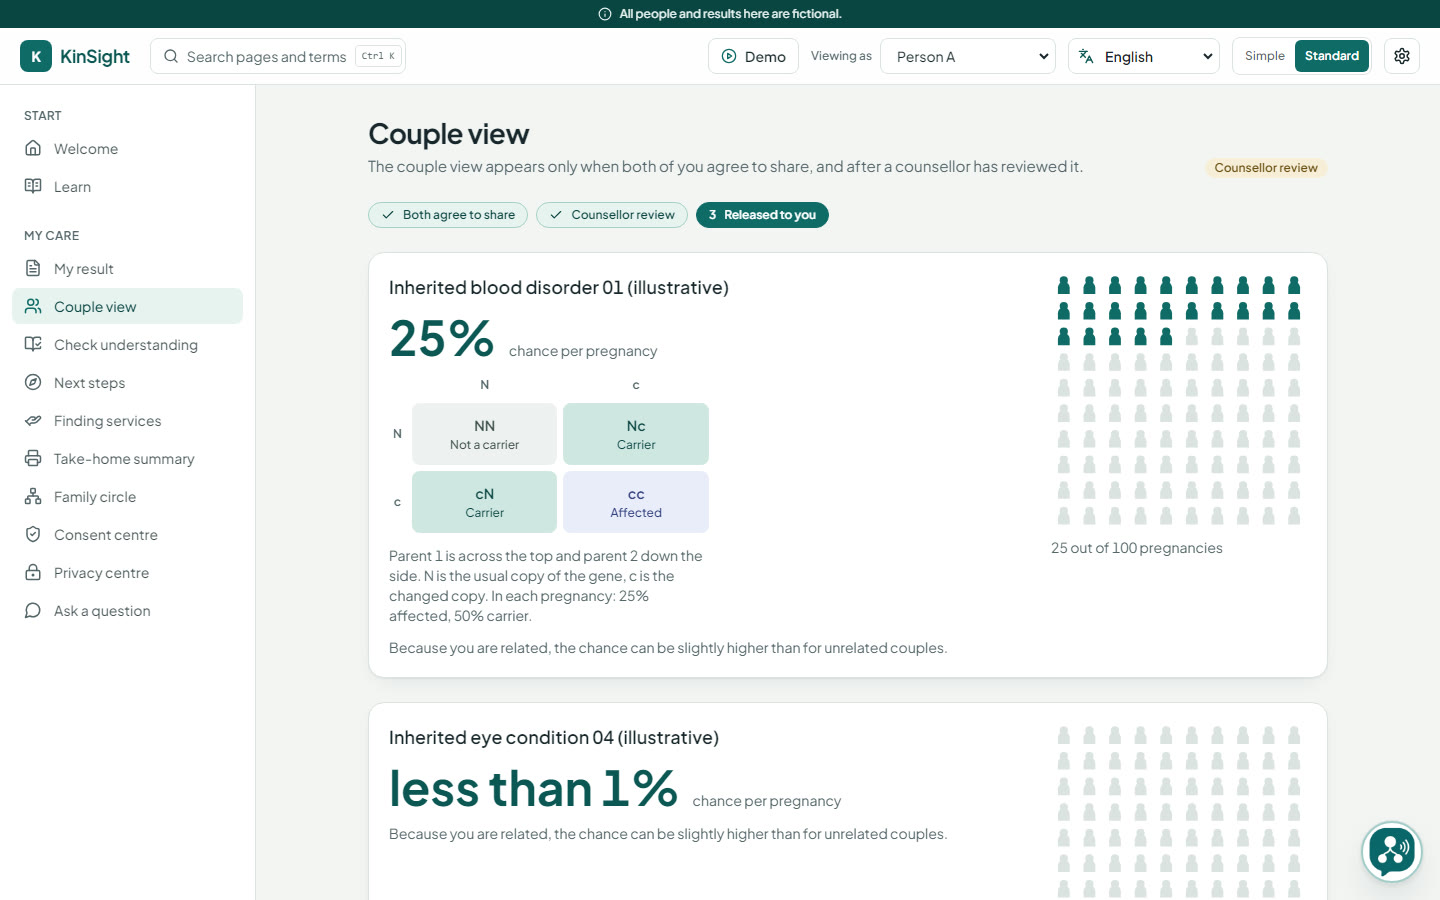
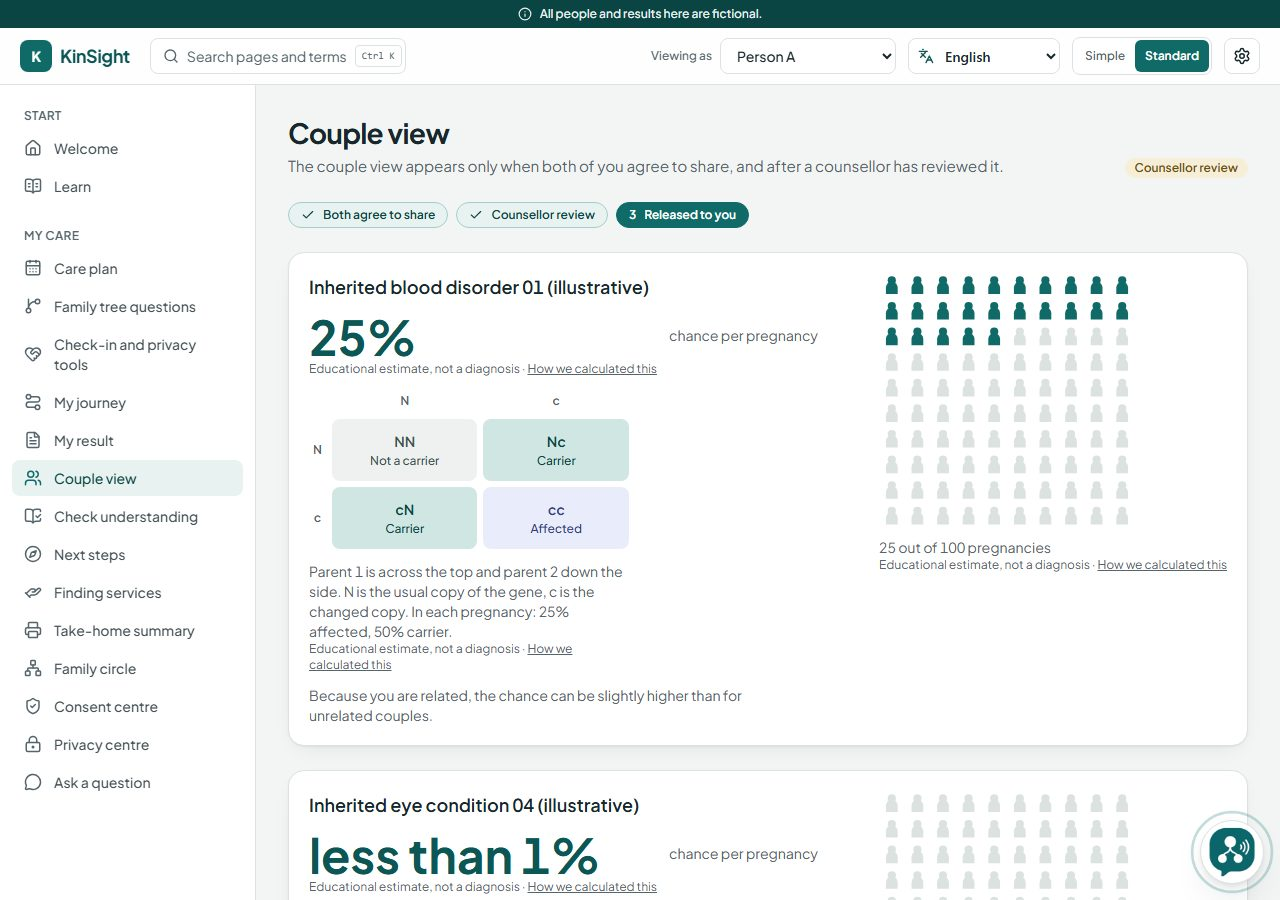
Label every risk figure as an educational estimate
API: Estimate envelope (value, kind, basis, method_url) replaces bare floats on the couple finding and triage result.
Web: <Estimate> component, strings in all seven languages, method anchors.
Guards: OpenAPI schema walk and a per-language Playwright crawl.

diff --git a/web/app/couple/page.tsx b/web/app/couple/page.tsx
@@ -1,7 +1,7 @@
 "use client";
 import { useMutation, useQuery, useQueryClient } from "@tanstack/react-query";
 import { Users } from "lucide-react";
-import { Notice, PageHeader, Steps } from "@/components/ui";
+import { Estimate, Notice, Paragraphs, PageHeader, Steps } from "@/components/ui";
 import { IconArray, Punnett, TierChip } from "@/components/visuals";
 import { ReadAloud } from "@/components/Voice";
 import { api, MOCK } from "@/lib/api";
@@ -36,16 +36,16 @@ export default function CoupleView() {
         <article key={f.condition_id} data-demo="finding" className="card grid gap-6 md:grid-cols-[minmax(0,1fr)_auto]">
           <div className="space-y-3">
             <h2 className="text-lg font-semibold">{rowLabel(f, lang)}</h2>
-            {f.risk_affected !== null ? (
-              <p className="flex items-baseline gap-3">
-                <span className="text-5xl font-bold tabular-nums text-brand-700" dir={f.risk_affected > 0 && f.risk_affected < 0.01 ? undefined : "ltr"}>{pct(f.risk_affected)}</span>
-                <span className="text-sm text-muted">{f.inheritance === "XLR" ? t("couple.chanceSon") : t("couple.chance")}</span>
+            {f.risk_affected.value !== null ? (
+              <p className="flex items-start gap-3">
+                <Estimate est={f.risk_affected}><span className="text-5xl font-bold tabular-nums text-brand-700" dir={f.risk_affected.value > 0 && f.risk_affected.value < 0.01 ? undefined : "ltr"}>{pct(f.risk_affected.value)}</span></Estimate>
+                <span className="mt-3 text-sm text-muted">{f.inheritance === "XLR" ? t("couple.chanceSon") : t("couple.chance")}</span>
               </p>
             ) : <p className="text-muted">{t("result.unclear")}</p>}
-            {f.formula_id === "ar_both_carrier" && f.risk_affected !== null && <Punnett affected={f.risk_affected} carrier={f.inputs?.carrier_child ?? 0.5} />}
+            {f.formula_id === "ar_both_carrier" && f.risk_affected.value !== null && <Punnett affected={f.risk_affected.value} carrier={f.inputs?.carrier_child ?? 0.5} />}
             {c.related && f.note_codes.includes("related_partners") && <p className="text-sm text-muted">{t("couple.relatedNote")}</p>}
           </div>
-          {f.risk_affected !== null && <IconArray risk={f.risk_affected} />}
+          {f.risk_affected.value !== null && <IconArray risk={f.risk_affected.value} />}
         </article>
       ))}
       {released && !!expl.data && (
@@ -54,7 +54,7 @@ export default function CoupleView() {
             <h2 className="text-lg font-semibold">{t("result.explanation")}</h2>
             <ReadAloud text={expl.data.blocks.join(" ")} />
           </div>
-          <div className="max-w-read space-y-3">{expl.data.blocks.map((b, i) => <p key={i}>{b}</p>)}</div>
+          <div className="max-w-read space-y-3"><Paragraphs blocks={expl.data.blocks} /></div>
         </div>
       )}
       {c?.tier && <p className="max-w-read text-sm text-muted">{t("couple.uncertainty")}</p>}

diff --git a/web/e2e/estimate-label.spec.ts b/web/e2e/estimate-label.spec.ts
@@ -1,0 +1,40 @@
+import { expect, test, type Page } from "@playwright/test";
+import languages from "../messages/languages.json";
+
+// Guard: every risk figure on screen ("25%", "1 in 4", "100 में 25") sits inside an <Estimate> (data-estimate), in every
+// language. Cohort statistics that are not a chance for a person are marked data-not-risk.
+const FIGURE = /\d\s?%|%\s?\d|\d+ (?:in|of|من|में|ல்|இல்|లో|ರಲ್ಲಿ|ರ|ൽ) \d+/;
+const PAGES = ["home", "learn", "result", "couple", "understand", "consents", "family", "next", "summary", "privacy", "ask",
+  "counsellor", "analyst", "governance", "methods", "plan", "clinic", "report-compare", "nasab"];
+
+const unlabelled = (page: Page) => page.evaluate((src) => {
+  const re = new RegExp(src);
+  const out: string[] = [];
+  const walker = document.createTreeWalker(document.body, NodeFilter.SHOW_TEXT);
+  for (let n = walker.nextNode(); n; n = walker.nextNode()) {
+    const el = n.parentElement;
+    if (!el || !re.test(n.textContent ?? "") || el.closest("[data-estimate],[data-not-risk],script,style,noscript,[hidden]")) continue;
+    out.push((n.textContent ?? "").trim().slice(0, 80));
+  }
+  return out;
+}, FIGURE.source);
+
+for (const { code } of languages) {
+  test(`every risk figure is labelled as an educational estimate (${code})`, async ({ page }) => {
+    await page.goto("/home");
+    await page.waitForFunction(() => localStorage.getItem("ks_lang") !== null);
+    await page.evaluate((l) => localStorage.setItem("ks_lang", l), code);
+    await page.reload();
+    // Both partners shared and the counsellor approved, so the couple's figures are on screen (mock state lives in sessionStorage).
+    await page.evaluate(() => sessionStorage.setItem("ks_mock", JSON.stringify({ pooled: { a: true, b: true }, released: true })));
+    await page.goto("/couple");
+    await expect(page.locator("[data-estimate]").first()).toBeVisible(); // the figures exist, so the crawl below is not vacuous
+    const bad: string[] = [];
+    for (const path of PAGES) {
+      await page.goto(`/${path}`);
+      await page.waitForLoadState("networkidle");
+      for (const t of await unlabelled(page)) bad.push(`${path}: ${t}`);
+    }
+    expect(bad).toEqual([]);
+  });
+}

diff --git a/web/lib/mock.ts b/web/lib/mock.ts
@@ -96,7 +96,7 @@ export const mock = {
     const compound = v.a.some((a) => v.b.some((b) => a.gene === b.gene && a.allele !== b.allele));
     const counts = { a: v.a.filter((g) => !shared.includes(g.gene)).length, b: v.b.filter((g) => !shared.includes(g.gene)).length };
     const rules = [shared.length === 1 && "RULE-01_SINGLE_GENE", shared.length > 1 && "RULE-02_MULTI_GENE", hold && "RULE-03_ORTHOGONAL_HOLD", (counts.a + counts.b > 0) && "RULE-04_PRIVATE_FINDING", compound && "RULE-05_COMPOUND_HET", v.phi > 0 && "RULE-06_CONSANGUINITY_REFLEX", v.pregnant_days !== null && v.pregnant_days < 120 && "RULE-07_PREGNANCY_WINDOW", ((v.dcs ?? 0) > 37.5 || v.teach_back_failures > 0) && "RULE-08_DECISIONAL_SUPPORT"].filter((r): r is string => !!r);
-    return { tier: shared.length ? 3 : rules.length ? 2 : 1, rules, shared_genes: shared, combined_risk_pct: shared.length > 1 ? 43.75 : shared.length ? 25 : 0, hold_release: hold, private_counts: counts, sla_hours: v.pregnant_days !== null && v.pregnant_days < 120 ? 24 : shared.length ? 72 : null };
+    return { tier: shared.length ? 3 : rules.length ? 2 : 1, rules, shared_genes: shared, combined_risk: { value: (shared.length > 1 ? 43.75 : shared.length ? 25 : 0) / 100, kind: "educational_estimate" as const, basis: "independent_loci_union", method_url: "/methods" }, hold_release: hold, private_counts: counts, sla_hours: v.pregnant_days !== null && v.pregnant_days < 120 ? 24 : shared.length ? 72 : null };
   },
   async checkin(body: z.infer<typeof safety.CheckinRequestS>) {
     const v = safety.CheckinRequestS.parse(body);
@@ -175,7 +175,7 @@ export const mock = {
     ensureReleased();
     if (!S.released) return { tier: s.tier, awaiting_counsellor: true, findings: null };
     return { tier: s.tier, awaiting_counsellor: false, related: s.related,
-      findings: shown(s).map((f) => ({ ...f, ...label(f.condition_id), risk_affected: f.risk_affected })) };
+      findings: shown(s).map((f) => ({ ...f, ...label(f.condition_id), risk_affected: { value: f.risk_affected, kind: "educational_estimate" as const, basis: f.formula_id, method_url: "/methods" } })) };
   },
   async grantPooling() {
     if (S.persona === "person_b") S.pooled.b = true; else S.pooled.a = true;

diff --git a/web/lib/safety.ts b/web/lib/safety.ts
@@ -1,10 +1,11 @@
 import { z } from "zod";
+import { EstimateS } from "./estimate";
 
 export const GeneCallS = z.object({ gene: z.string().trim().min(1), inheritance: z.enum(["AR", "XLR"]), zygosity: z.enum(["HET", "HOM", "HEMI"]), acmg_class: z.number().int().min(1).max(5), requires_orthogonal: z.boolean(), orthogonal_verified: z.boolean(), allele: z.string() });
 export type GeneCall = z.infer<typeof GeneCallS>;
 export const TriageRequestS = z.object({ a: z.array(GeneCallS), b: z.array(GeneCallS), phi: z.number().min(0).max(0.5), pregnant_days: z.number().int().nonnegative().nullable(), dcs: z.number().min(0).max(100).nullable(), teach_back_failures: z.number().int().nonnegative() });
 export type TriageRequest = z.infer<typeof TriageRequestS>;
-export const TriageS = z.object({ tier: z.number().int().min(1).max(3), rules: z.array(z.string()), shared_genes: z.array(z.string()), combined_risk_pct: z.number().min(0).max(100), hold_release: z.boolean(), private_counts: z.object({ a: z.number().int().nonnegative(), b: z.number().int().nonnegative() }), sla_hours: z.number().nonnegative().nullable() });
+export const TriageS = z.object({ tier: z.number().int().min(1).max(3), rules: z.array(z.string()), shared_genes: z.array(z.string()), combined_risk: EstimateS, hold_release: z.boolean(), private_counts: z.object({ a: z.number().int().nonnegative(), b: z.number().int().nonnegative() }), sla_hours: z.number().nonnegative().nullable() });
 export const CheckinRequestS = z.object({ instrument: z.enum(["dcs", "low_literacy_dcs", "pagis"]), answers: z.array(z.union([z.number(), z.string()])).nullable(), total: z.number().nonnegative().nullable() }).superRefine((v, ctx) => {
   const valid = v.instrument === "pagis" ? v.answers === null && v.total !== null : v.total === null && v.answers?.length === (v.instrument === "dcs" ? 16 : 10) && v.answers.every((a) => v.instrument === "dcs" ? typeof a === "number" && Number.isInteger(a) && a >= 0 && a <= 4 : ["yes", "unsure", "no"].includes(String(a)));
   if (!valid) ctx.addIssue({ code: z.ZodIssueCode.custom, message: "Complete the selected instrument" });

diff --git a/web/app/analyst/page.tsx b/web/app/analyst/page.tsx
@@ -43,10 +43,10 @@ export default function Analyst() {
         <div className="flex h-4 overflow-hidden rounded-full bg-sunk" role="img" aria-label={tiers.map(([k, n]) => `${t(`tier.${k}`)}: ${n}`).join(", ")}>
           {tiers.map(([k, n]) => <span key={k} style={{ width: `${(100 * n) / total}%`, background: `rgb(var(--b${k === 1 ? 200 : k === 2 ? 500 : 700}))` }} />)}
         </div>
-        <ul className="flex flex-wrap gap-x-6 gap-y-1 text-sm">
+        <ul data-not-risk className="flex flex-wrap gap-x-6 gap-y-1 text-sm">
           {tiers.map(([k, n]) => <li key={k} className="flex items-center gap-2"><span aria-hidden className="h-2.5 w-2.5 rounded-full" style={{ background: `rgb(var(--b${k === 1 ? 200 : k === 2 ? 500 : 700}))` }} />{t(`tier.${k}`)} <b className="tabular-nums" dir="ltr">{n} ({Math.round((100 * n) / total)}%)</b></li>)}
         </ul>
-        <p className="text-xs text-muted">{t("analyst.cohortNote").replace("{n}", String(d.cohort.couples)).replace("{r}", String(Math.round(d.cohort.related_share * 100)))}</p>
+        <p data-not-risk className="text-xs text-muted">{t("analyst.cohortNote").replace("{n}", String(d.cohort.couples)).replace("{r}", String(Math.round(d.cohort.related_share * 100)))}</p>
       </div>
 
       <div className="card" data-demo="burden">
@@ -116,7 +116,7 @@ export default function Analyst() {
               <span className="flex flex-wrap items-center gap-x-5 gap-y-1 text-sm">
                 <span>{t("cap.median")} <b className="tabular-nums" dir="ltr">{g.median_days}</b> {t("cap.days")}</span>
                 <span>{t("cap.p95")} <b className="tabular-nums" dir="ltr">{g.p95_days}</b> {t("cap.days")}</span>
-                <span>{t("cap.tier3")} <b className="tabular-nums" dir="ltr">{Math.round(g.tier3_within_window * 100)}%</b></span>
+                <span data-not-risk>{t("cap.tier3")} <b className="tabular-nums" dir="ltr">{Math.round(g.tier3_within_window * 100)}%</b></span>
               </span>
             </li>
           ))}

diff --git a/web/components/ui.tsx b/web/components/ui.tsx
@@ -1,6 +1,8 @@
 "use client";
 import { Check, CircleDashed, HelpCircle, Minus } from "lucide-react";
+import Link from "next/link";
 import type { ReactNode } from "react";
+import type { EstimateInfo } from "@/lib/estimate";
 import { useI18n } from "@/lib/i18n";
 
 export function PageHeader({ title, lead, action }: { title: string; lead?: string; action?: ReactNode }) {
@@ -41,4 +43,27 @@ export function Steps({ labels, current }: { labels: string[]; current: number }
       ))}
     </ol>
   );
+}
+
+// Every risk number is wrapped here so the label sits next to it, not only in the footer. The API sends the envelope;
+// text that came from a verified template (explanations, Kin replies) has no envelope, so it points at /methods.
+type EstimateRef = Pick<EstimateInfo, "basis" | "method_url">;
+export const ABOUT_ESTIMATES: EstimateRef = { basis: "estimates", method_url: "/methods" };
+export const hasFigure = (text: string) => /\d\s?%|%\s?\d|\d+ (?:in|of|من|में|ல்|இல்|లో|ರಲ್ಲಿ|ರ|ൽ) \d+/i.test(text);
+
+export function Estimate({ est, children, block = false }: { est: EstimateRef; children: ReactNode; block?: boolean }) {
+  const { t } = useI18n();
+  return (
+    <span data-estimate className={block ? "block" : "inline-flex flex-col"}>
+      {children}
+      <span className={`${block ? "block " : ""}text-xs font-normal text-muted`}>
+        {t("estimate.label")} · <Link className="underline" href={`${est.method_url}#${est.basis}`}>{t("estimate.how")}</Link>
+      </span>
+    </span>
+  );
+}
+
+// Explanation paragraphs: any paragraph carrying a figure gets the label right under it.
+export function Paragraphs({ blocks }: { blocks: string[] }) {
+  return <>{blocks.map((b, i) => hasFigure(b) ? <p key={i}><Estimate est={ABOUT_ESTIMATES} block>{b}</Estimate></p> : <p key={i}>{b}</p>)}</>;
 }

diff --git a/web/app/understand/page.tsx b/web/app/understand/page.tsx
@@ -2,7 +2,7 @@
 import { useMutation, useQuery } from "@tanstack/react-query";
 import { CheckCircle2, Heart } from "lucide-react";
 import { useState } from "react";
-import { Notice, PageHeader } from "@/components/ui";
+import { ABOUT_ESTIMATES, Estimate, hasFigure, Notice, PageHeader } from "@/components/ui";
 import { api } from "@/lib/api";
 import { useI18n } from "@/lib/i18n";
 
@@ -40,15 +40,16 @@ export default function Understand() {
                 <span className="grid h-6 w-6 shrink-0 place-items-center rounded-full bg-brand-50 text-xs font-bold text-brand-700">{qi + 1}</span>
                 {q.text}
               </p>
-              <div className="space-y-2">
-                {opts.map((o) => (
+              {(() => {
+                const list = <div className="space-y-2">{opts.map((o) => (
                   <label key={o.id} className={`flex cursor-pointer items-center gap-3 rounded-lg border px-3.5 py-2.5 text-sm transition-colors hover:bg-brand-50 ${answers[q.id] === o.id ? "border-brand-600 bg-brand-50" : "border-line"}`}>
                     <input type="radio" data-opt={o.id} className="h-4 w-4 accent-[#106b68]" name={q.id} checked={answers[q.id] === o.id}
                       onChange={() => setAnswers({ ...answers, [q.id]: o.id })} />
                     {o.text}
                   </label>
-                ))}
-              </div>
+                ))}</div>;
+                return opts.some((o) => hasFigure(o.text)) ? <Estimate est={ABOUT_ESTIMATES} block>{list}</Estimate> : list;
+              })()}
             </div>
           );
         })}

diff --git a/web/components/Assistant.tsx b/web/components/Assistant.tsx
@@ -3,6 +3,7 @@ import { useQuery } from "@tanstack/react-query";
 import { Mic, MicOff, SendHorizontal, Square, Volume2, VolumeX, X } from "lucide-react";
 import { usePathname, useRouter } from "next/navigation";
 import { useEffect, useRef, useState } from "react";
+import { ABOUT_ESTIMATES, Estimate, hasFigure } from "@/components/ui";
 import { api, MOCK } from "@/lib/api";
 import { answer, detectLang, suggestions, type Lang, type Link as L } from "@/lib/assistant";
 import { LANGUAGES, useI18n } from "@/lib/i18n";
@@ -128,7 +129,7 @@ export function AssistantPanel({ mode: layout, onClose }: { mode: "float" | "pag
           <div key={m.id} className={`flex flex-col gap-1.5 ${m.role === "you" ? "items-end" : "items-start"}`}>
             <p dir={m.lang === "ar" ? "rtl" : "ltr"} data-lang={m.lang} data-role={m.role}
               className={`max-w-[88%] whitespace-pre-line rounded-2xl px-3.5 py-2 text-sm ${m.role === "you" ? "rounded-ee-md bg-brand-600 text-onbrand" : m.refused ? "rounded-es-md bg-note-bg text-note-fg" : "rounded-es-md bg-sunk"}`}>
-              {m.voice && <Mic aria-hidden className="me-1.5 inline h-3 w-3 opacity-70" />}{m.text}
+              {m.voice && <Mic aria-hidden className="me-1.5 inline h-3 w-3 opacity-70" />}{m.role === "kin" && hasFigure(m.text) ? <Estimate est={ABOUT_ESTIMATES} block>{m.text}</Estimate> : m.text}
             </p>
             {m.links?.map((l) => (
               <button key={l.href} className="btn-quiet btn-sm" onClick={() => { router.push(l.href); onClose?.(); }}>{l.label}</button>

diff --git a/web/app/methods/page.tsx b/web/app/methods/page.tsx
@@ -11,6 +11,7 @@ const FORMULAS: { id: string; en: string }[] = [
   { id: "ar_one_carrier_residual", en: "prior = r + (1 − r)·c;  post = prior(1−s) / (prior(1−s) + (1−prior));  risk = ¼ · post" },
   { id: "ar_both_not_detected", en: "p = c(1−s) / (c(1−s) + (1−c));  risk = ¼ · p²" },
   { id: "xlr_mother_carrier", en: "each son affected = 1/2 · each daughter carrier = 1/2" },
+  { id: "independent_loci_union", en: "risk = 1 − 0.75^m   (m = genes both partners carry)" },
   { id: "kinship", en: "k(i,j) = ½ · (k(father_i, j) + k(mother_i, j));  F_child = k(father, mother)" },
 ];
 const KIN: [string, string][] = [["First cousins", "1/16"], ["Double first cousins", "1/8"], ["Full siblings", "1/4"], ["Half-siblings", "1/8"], ["Uncle and niece", "1/8"], ["Second cousins", "1/64"], ["Unrelated", "0"]];
@@ -38,7 +39,7 @@ export default function Methods() {
         <h2 className="border-b border-line px-5 py-3 text-lg font-semibold">{t("methods.formulas")}</h2>
         <ul className="divide-y divide-line">
           {FORMULAS.map((f) => (
-            <li key={f.id} className="px-5 py-4">
+            <li key={f.id} id={f.id} className="px-5 py-4 target:bg-brand-50">
               <p className="text-sm font-semibold">{f.id.replaceAll("_", " ")}</p>
               <p className="my-1.5 overflow-x-auto rounded-lg bg-sunk px-3 py-2 font-mono text-[0.8rem]" dir="ltr">{f.en}</p>
               <p className="max-w-read text-sm text-muted">{t(`methods.formula.${f.id}`)}</p>

diff --git a/web/app/learn/page.tsx b/web/app/learn/page.tsx
@@ -1,7 +1,7 @@
 "use client";
 import { Search } from "lucide-react";
 import { useEffect, useState } from "react";
-import { PageHeader } from "@/components/ui";
+import { ABOUT_ESTIMATES, Estimate, hasFigure, PageHeader } from "@/components/ui";
 import { IconArray, Punnett } from "@/components/visuals";
 import { useI18n } from "@/lib/i18n";
 import { GLOSSARY, MYTHS } from "@/lib/learn";
@@ -31,7 +31,7 @@ export default function Learn() {
             {[0.25, 0.5, 0.01].map((r) => <button key={r} data-demo={r === 0.01 ? "chance-small" : r === 0.5 ? "chance-half" : "chance-quarter"} aria-pressed={risk === r} onClick={() => setRisk(r)}>{r === 0.01 ? "1 / 100" : r === 0.25 ? "1 / 4" : "1 / 2"}</button>)}
           </div>
           <IconArray risk={risk} />
-          <p className="text-xs text-muted">{t("learn.chance.note")}</p>
+          <p className="text-xs text-muted"><Estimate est={ABOUT_ESTIMATES} block>{t("learn.chance.note")}</Estimate></p>
         </div>
       </div>
 
@@ -41,7 +41,7 @@ export default function Learn() {
           {MYTHS.map((m, i) => (
             <li key={i} className="grid gap-1 px-5 py-4 md:grid-cols-2 md:gap-6">
               <p className="text-muted line-through decoration-muted/40">{m.myth[l]}</p>
-              <p className="font-medium">{m.fact[l]}</p>
+              <p className="font-medium">{hasFigure(m.fact[l]) ? <Estimate est={ABOUT_ESTIMATES} block>{m.fact[l]}</Estimate> : m.fact[l]}</p>
             </li>
           ))}
         </ul>

diff --git a/web/app/clinic/page.tsx b/web/app/clinic/page.tsx
@@ -3,7 +3,7 @@ import { exploreGene } from "@/lib/clinvar";
 import Restricted from "@/components/Restricted";
 import { useState } from "react";
 import { useMutation } from "@tanstack/react-query";
-import { Notice, PageHeader } from "@/components/ui";
+import { Estimate, Notice, PageHeader } from "@/components/ui";
 import { api, MOCK } from "@/lib/api";
 import { TRIAGE_PRESETS, geneCall, triagePreset, type TriageRequest } from "@/lib/safety";
 import { useI18n } from "@/lib/i18n";
@@ -66,7 +66,7 @@ function ClinicCards() {
         <p>{t("safety.tier")}: {triage.data.tier}</p>
         <p>{t("safety.rules")}</p><ul>{triage.data.rules.map((r) => <li key={r}>{td(`safety.rule.${r}`)}</li>)}</ul>
         <p>{t("safety.sharedGenes")}: <bdi>{triage.data.shared_genes.join(", ") || t("safety.none")}</bdi></p>
-        <p>{t("safety.chance")}: {t("safety.frequency").replace("{x}", String(triage.data.combined_risk_pct))}</p>
+        <p>{t("safety.chance")}: <Estimate est={triage.data.combined_risk}>{t("safety.frequency").replace("{x}", String(Number(((triage.data.combined_risk.value ?? 0) * 100).toFixed(2))))}</Estimate></p>
         <p>{t(triage.data.hold_release ? "safety.hold" : "safety.noHold")}</p>
         <p>{t("safety.hours")}: {triage.data.sla_hours ?? t("safety.none")}</p>
         <p>{t("safety.privateCounts")}: {triage.data.private_counts.a} / {triage.data.private_counts.b}</p>

diff --git a/web/components/visuals.tsx b/web/components/visuals.tsx
@@ -1,5 +1,6 @@
 "use client";
 import { Check, Circle, Clock3 } from "lucide-react";
+import { ABOUT_ESTIMATES, Estimate } from "@/components/ui";
 import { useI18n } from "@/lib/i18n";
 
 export function TierChip({ tier }: { tier: number }) {
@@ -26,7 +27,7 @@ export function IconArray({ risk }: { risk: number }) {
           );
         })}
       </svg>
-      <figcaption className="text-sm text-muted">{n === 0 ? t("viz.lessThanOne") : t("viz.outOf").replace("{n}", String(n))}</figcaption>
+      <figcaption className="text-sm text-muted"><Estimate est={ABOUT_ESTIMATES} block>{n === 0 ? t("viz.lessThanOne") : t("viz.outOf").replace("{n}", String(n))}</Estimate></figcaption>
     </figure>
   );
 }
@@ -50,7 +51,7 @@ export function Punnett({ affected, carrier }: { affected: number; carrier: numb
         <span className="grid place-items-center px-1">c</span>{cell("carrier", "cN")}{cell("affected", "cc")}
       </div>
       <figcaption className="max-w-xs text-sm text-muted">
-        {t("punnett.axes")} {t("punnett.caption").replace("{aff}", pct(affected)).replace("{car}", pct(carrier))}
+        <Estimate est={ABOUT_ESTIMATES} block>{t("punnett.axes")} {t("punnett.caption").replace("{aff}", pct(affected)).replace("{car}", pct(carrier))}</Estimate>
       </figcaption>
     </figure>
   );
